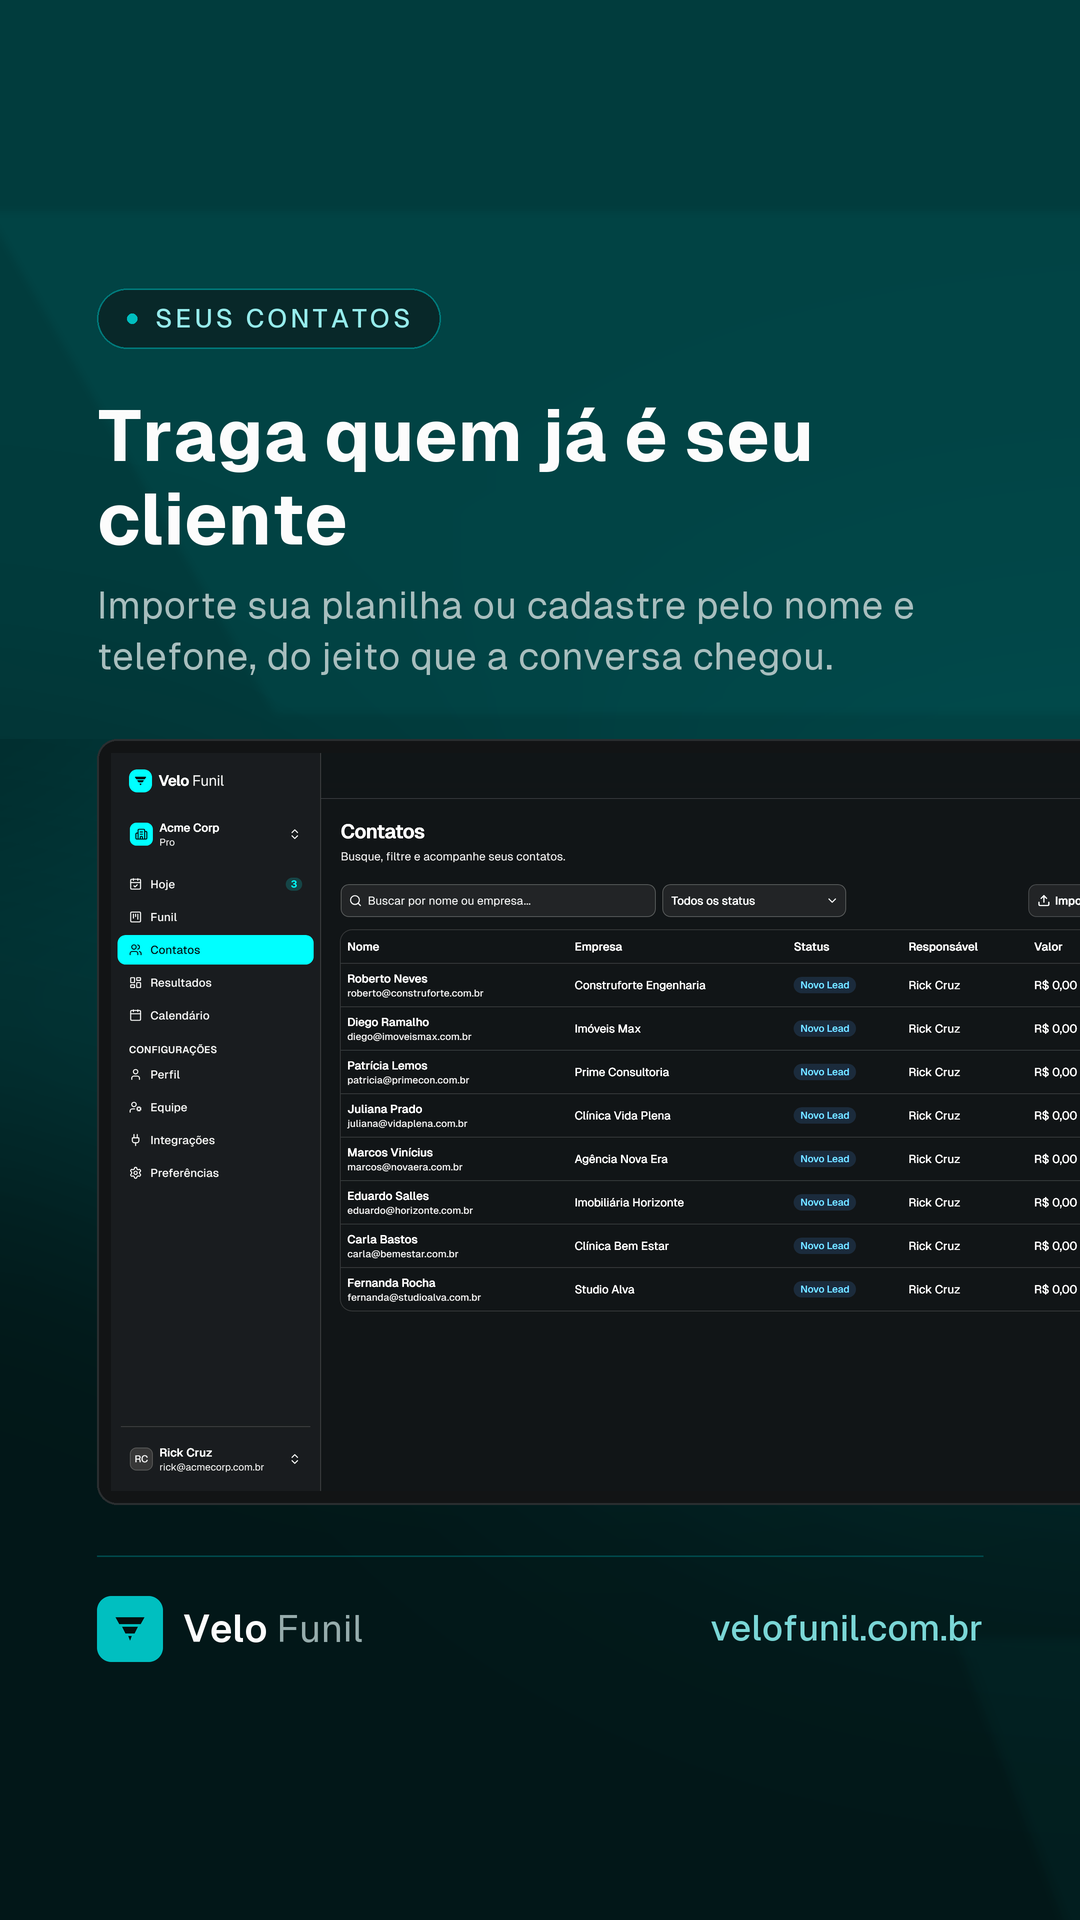
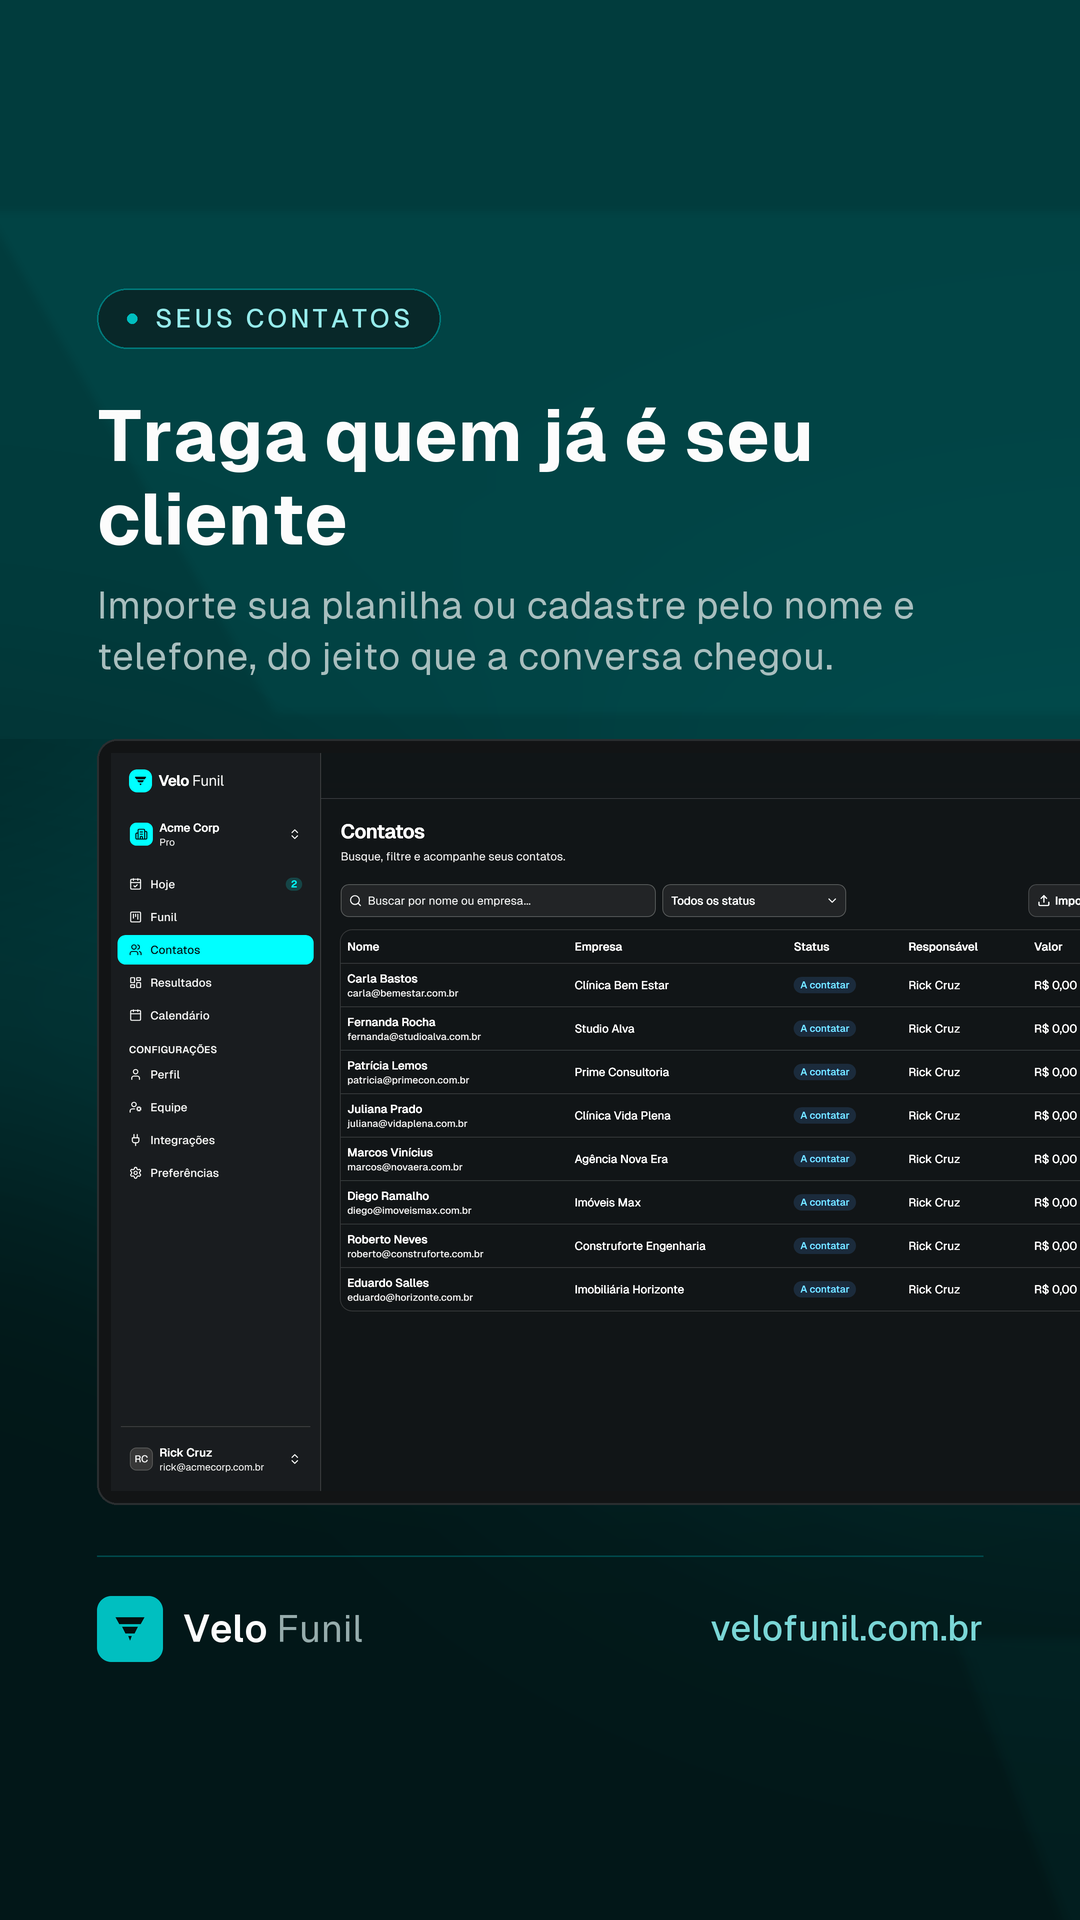
fix(copy): "Novo Lead" era a última palavra de jargão, e ficava onde mais gente lê
Reportado pelo dono: "quando aparece lead tem muita gente que não entende".
Procede, e o lugar em que sobreviveu é o pior possível.

O `prd-copy-sem-jargao.md` já tinha banido "Lead" e a renomeação de 19/08
tirou a palavra do menu — mas ela continuou sendo a PRIMEIRA COLUNA DO FUNIL,
visível em toda visita ao Kanban, que é a tela onde o cliente passa o dia.

## "A contatar", não "Novo contato"

A tradução literal seria "Novo contato". Não serve: seguido de "Contato
Realizado", vira contato → contato, e a pessoa não sabe o que separa uma
coluna da outra.

"A contatar" nomeia a AÇÃO PENDENTE, que é o que a coluna de fato significa —
e a progressão para "Contato Realizado" passa a se explicar sozinha, sem
glossário.

A chave do enum continua `novo`: é `deal_stage` no Postgres, usado em 22
arquivos, e renomeá-la seria migration para trocar uma palavra que ninguém
digita.

## O resto do vocabulário

Onze arquivos: toasts ("Lead criado" → "Contato criado"), "Lead vinculado" no
painel do negócio, "Leads ilimitados" nos dois cards de plano, o título da ABA
do navegador em /leads, a FAQ da landing, o tour de boas-vindas e três
mensagens de erro de Server Action.

## "Funil" agora se explica sozinho

A descrição da tela dizia "Acompanhe seus negócios em cada etapa do funil" —
usava a palavra para explicar a palavra, e quem não conhece o termo saía sem
saber. Virou "Cada negócio, do primeiro contato ao fechamento. Arraste o card
[…]

diff --git a/lib/leads/types.ts b/lib/leads/types.ts
@@ -29,8 +29,28 @@ export type Activity = {
   createdAt: string
 }
 
+/**
+ * Os rótulos das seis etapas, como aparecem na tela.
+ *
+ * ## "A contatar", não "Novo Lead" (24/08)
+ *
+ * "Lead" é jargão de quem vende software de vendas, não de quem vende serviço.
+ * O `prd-copy-sem-jargao.md` já tinha banido a palavra e a renomeação de 19/08
+ * a tirou do menu — mas ela sobreviveu aqui, que é justamente onde mais gente
+ * a lê: é a primeira coluna do funil, visível em toda visita ao Kanban.
+ *
+ * O substituto não é "Novo contato", que seria a tradução literal: seguido de
+ * "Contato Realizado", viraria contato → contato, e a pessoa não saberia o que
+ * separa uma coluna da outra. "A contatar" nomeia a AÇÃO PENDENTE, que é o que
+ * a coluna de fato significa, e a progressão para "Contato Realizado" passa a
+ * se explicar sozinha.
+ *
+ * A chave do enum continua `novo` — ela é `deal_stage` no Postgres, usada em
+ * 22 arquivos, e renomeá-la seria migration para trocar uma palavra que
+ * ninguém digita.
+ */
 export const leadStatusLabels: Record<LeadStatus, string> = {
-  novo: 'Novo Lead',
+  novo: 'A contatar',
   contato_realizado: 'Contato Realizado',
   proposta_enviada: 'Proposta Enviada',
   negociacao: 'Negociação',

diff --git a/components/leads/leads-page-client.tsx b/components/leads/leads-page-client.tsx
@@ -187,7 +187,7 @@ export function LeadsPageClient({
       toast.error(result.error)
       return
     }
-    toast.success(id ? 'Lead atualizado com sucesso.' : 'Lead criado com sucesso.')
+    toast.success(id ? 'Contato atualizado com sucesso.' : 'Contato criado com sucesso.')
     setFormOpen(false)
     // Sem router.refresh(): create/updateLead já revalidam '/leads', a
     // rota atual.
@@ -208,7 +208,7 @@ export function LeadsPageClient({
       toast.error(result.error)
       return
     }
-    toast.success('Lead excluído.')
+    toast.success('Contato excluído.')
     setDeleteOpen(false)
     // Sem router.refresh(): deleteLead já revalida '/leads'.
   }

diff --git a/components/landing/faq-section.tsx b/components/landing/faq-section.tsx
@@ -26,7 +26,7 @@ const faqs = [
   },
   {
     q: 'Consigo trazer os contatos da minha planilha?',
-    a: 'Sim. Exporte sua planilha como .csv com as colunas Nome, Telefone, E-mail e Valor e importe direto na tela de Leads. Contatos repetidos são ignorados automaticamente, e você também pode cadastrar um por um, se preferir.',
+    a: 'Sim. Exporte sua planilha como .csv com as colunas Nome, Telefone, E-mail e Valor e importe direto na tela de Contatos. Contatos repetidos são ignorados automaticamente, e você também pode cadastrar um por um, se preferir.',
   },
   {
     q: 'Meus dados ficam separados dos de outras empresas?',

diff --git a/components/leads/lead-detail-client.tsx b/components/leads/lead-detail-client.tsx
@@ -96,7 +96,7 @@ export function LeadDetailClient({
       toast.error(result.error)
       return
     }
-    toast.success('Lead atualizado com sucesso.')
+    toast.success('Contato atualizado com sucesso.')
     setFormOpen(false)
     // Sem router.refresh(): updateLead já revalida '/leads/${lead.id}',
     // a rota atual, e o Next aplica o RSC atualizado sozinho.
@@ -111,7 +111,7 @@ export function LeadDetailClient({
       toast.error(result.error)
       return
     }
-    toast.success('Lead excluído.')
+    toast.success('Contato excluído.')
     router.push('/leads')
   }
 

diff --git a/components/landing/how-it-works-section.tsx b/components/landing/how-it-works-section.tsx
@@ -45,7 +45,7 @@ const passos = [
     numero: '02',
     titulo: 'Arraste pelas etapas',
     descricao:
-      'Cada negócio vira um card. Arraste de "Novo Lead" até "Fechado Ganho" conforme a conversa avança, e registre ligações, reuniões e notas no histórico do cliente.',
+      'Cada negócio vira um card. Arraste de "A contatar" até "Fechado Ganho" conforme a conversa avança, e registre ligações, reuniões e notas no histórico do cliente.',
     icone: LayoutGrid,
     accent: 'text-violet-500 dark:text-violet-400',
     fundo: 'bg-violet-500/10 dark:bg-violet-400/10',

diff --git a/components/kanban/deal-detail-sheet.tsx b/components/kanban/deal-detail-sheet.tsx
@@ -235,7 +235,7 @@ export function DealDetailSheet({
 
               {lead && (
                 <div>
-                  <span className="text-muted-foreground text-xs">Lead vinculado</span>
+                  <span className="text-muted-foreground text-xs">Contato vinculado</span>
                   <p className="text-sm font-medium">{lead.name}</p>
                   <p className="text-muted-foreground text-xs">{lead.email}</p>
                   <p className="text-muted-foreground text-xs">{lead.phone}</p>

diff --git a/app/(dashboard)/kanban/page.tsx b/app/(dashboard)/kanban/page.tsx
@@ -36,7 +36,7 @@ export default async function KanbanPage() {
     <div className="-mx-4 max-w-none px-4 md:-mx-6 md:px-6">
       <PageHeader
         title="Funil"
-        description="Acompanhe seus negócios em cada etapa do funil."
+        description="Cada negócio, do primeiro contato ao fechamento. Arraste o card conforme a conversa avança."
       />
 
       {/* Board completamente vazio: mostra o guia acima dele. A condição é

diff --git a/lib/integrations/workflow-actions.ts b/lib/integrations/workflow-actions.ts
@@ -144,7 +144,7 @@ export async function enviarEmailViaGmail(leadId: string, values: unknown) {
     .eq('workspace_id', sessao.workspaceId)
     .maybeSingle()
 
-  if (!lead) return { error: 'Lead não encontrado.' }
+  if (!lead) return { error: 'Contato não encontrado.' }
   if (!lead.email) return { error: 'Este lead não tem e-mail cadastrado.' }
 
   const token = await obterAccessTokenValido(sessao.workspaceId, 'gmail')

diff --git a/components/settings/plan-comparison-table.tsx b/components/settings/plan-comparison-table.tsx
@@ -22,7 +22,7 @@ const FREE_FEATURES = [
 const PRO_FEATURES = [
   'Várias empresas no mesmo login',
   'Colaboradores ilimitados',
-  'Leads ilimitados',
+  'Contatos ilimitados',
   // Google Calendar e Gmail são exclusivos do Pro desde 12/08 e estavam fora
   // desta lista, que é justamente a que existe para convencer alguém a pagar.
   // São o recurso mais concreto do plano: o resto é "mais do mesmo, sem

diff --git a/app/(dashboard)/kanban/loading.tsx b/app/(dashboard)/kanban/loading.tsx
@@ -6,7 +6,7 @@ export default function KanbanLoading() {
     <div>
       <PageHeader
         title="Funil"
-        description="Acompanhe seus negócios em cada etapa do funil."
+        description="Cada negócio, do primeiro contato ao fechamento. Arraste o card conforme a conversa avança."
       />
       <div className="flex gap-4 overflow-x-auto pb-4">
         {Array.from({ length: 6 }).map((_, i) => (

diff --git a/app/(dashboard)/leads/page.tsx b/app/(dashboard)/leads/page.tsx
@@ -4,7 +4,7 @@ import type { LeadStatus } from '@/lib/leads/types'
 import { getCurrentUserAndWorkspace } from '@/lib/supabase/workspace'
 import { LeadsPageClient } from '@/components/leads/leads-page-client'
 
-export const metadata: Metadata = { title: 'Leads' }
+export const metadata: Metadata = { title: 'Contatos' }
 
 export default async function LeadsPage({
   searchParams,

diff --git a/components/onboarding/tour.tsx b/components/onboarding/tour.tsx
@@ -48,7 +48,7 @@ const PASSOS: Passo[] = [
     icone: Users,
     titulo: 'Gerencie seus leads',
     texto:
-      'Cadastre seus contatos em Leads, ou importe a planilha que você já usa. Cada lead tem histórico próprio.',
+      'Cadastre seus contatos, ou importe a planilha que você já usa. Cada contato tem histórico próprio.',
   },
   {
     icone: KanbanSquare,
